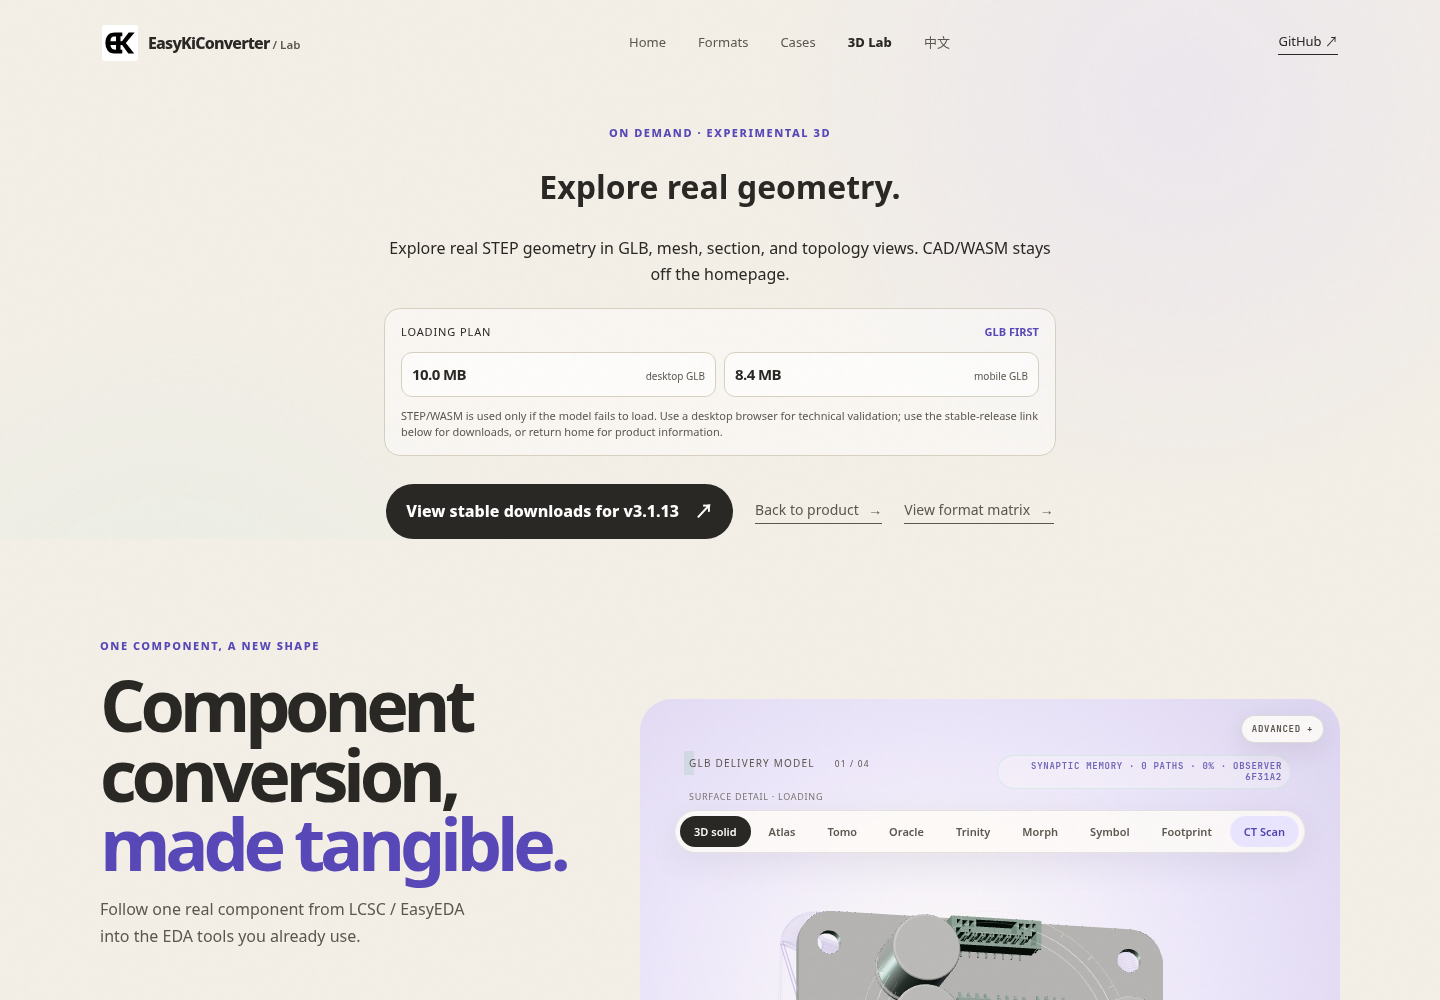
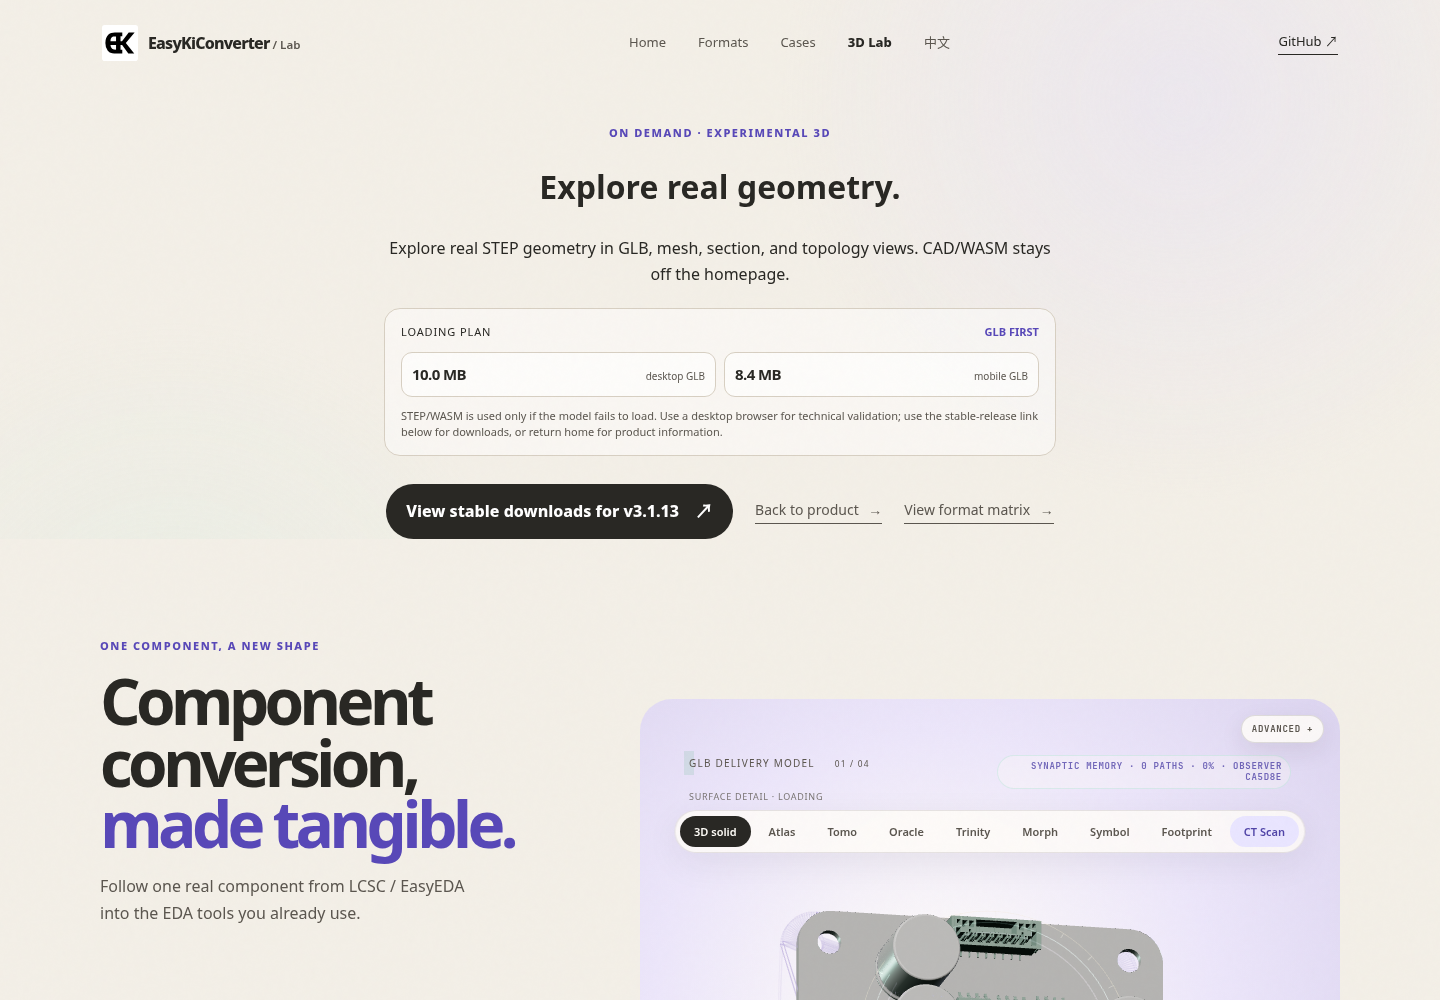
Fit Lab headline across runner fonts

Changed region(s): [[0.0625, 0.682, 0.4062, 0.961]]

diff --git a/src/css/motion-narrative.css b/src/css/motion-narrative.css
@@ -4,7 +4,7 @@
 .motion-heading h1,.motion-chapter h2{font-size:clamp(48px,6.8vw,94px);line-height:.96;letter-spacing:-.075em;margin:18px 0}
 .motion-heading h1 em,.motion-chapter h2 em{font-style:normal;color:var(--violet,#6f61d8)}
 .motion-heading>p:last-child,.motion-chapter p{max-width:370px;color:var(--muted,#746f66);line-height:1.7}
-@media(min-width:901px){.motion-heading{width:min(520px,36vw)}.motion-heading h1{font-size:clamp(48px,5vw,72px)}}
+@media(min-width:901px){.motion-heading{width:min(520px,36vw)}.motion-heading h1{font-size:clamp(48px,4.5vw,64px)}}
 .motion-model{position:absolute;z-index:1;left:50%;top:51%;width:min(62vw,780px);height:min(72vh,700px);min-height:380px;transform:translate(-50%,-50%);border-radius:48% 52% 57% 43% / 46% 43% 57% 54%;background:radial-gradient(ellipse at 42% 44%,#fffdf8 0%,#ece6fa 49%,#d8d0ed 100%);overflow:hidden;transition:width .5s ease,height .5s ease,border-radius .5s ease}
 .motion-model[data-artifact-view="model"]{border-radius:32px}
 @media(min-width:901px){.motion-model[data-artifact-view="model"]{left:auto;right:max(3vw,calc((100vw - 1240px)/2));width:min(52vw,700px);transform:translateY(-50%)}}

diff --git a/docs/QUALITY_BASELINE_en.md b/docs/QUALITY_BASELINE_en.md
@@ -12,7 +12,7 @@ Recorded: 2026-10-15. This document records facts reproducible from the reposito
 
 - 2026-10-16, keyboard testing found that the Chinese and English 3D Lab skip links updated the URL fragment and scrolled to `main#lab-main`, but focus returned to `body`. Adding `tabindex="-1"` to both main landmarks fixes focus transfer; bilingual keyboard regressions verify Enter places focus on main. Focused Chromium/Chromium Mobile tests (2) and full Playwright (222 passed, 4 skipped), `pnpm run build` (8 pages, zero Astro diagnostics), `pnpm run check`, eight-route validation, model-asset checks, six Python unit tests, and `git diff --check` passed. PR #354 was independently approved by Feng083 and merged into `version/V0.0.1` (merge `ad2f255`); PR checks and post-merge Site Quality run `38801904869` both passed (222 passed, 4 skipped). No production deployment or real-device test was performed.
 
-- 2026-10-16, a 1440px 3D Lab screenshot showed the Chinese narrative headline isolating “换，” on a line. The desktop breakpoint now caps the heading at 72px and widens its text column to 520px; bilingual 1440/1024px regressions check line count and keep the Chinese phrase together without changing tablet/mobile breakpoints. Before/after and English screenshots are in `.github/pr-evidence/lab-headline-{before,after}-*`. `pnpm run build` (8 pages, zero Astro diagnostics), `pnpm run check`, eight-route validation, model-asset checks, six Python unit tests, full Playwright (224 passed, 4 skipped), and `git diff --check` passed. The Release API returned 403 during build, so the checked `v3.1.13` fallback was used. No production deployment or real-device test was performed.
+- 2026-10-16, a 1440px 3D Lab screenshot showed the Chinese narrative headline isolating “换，” on a line. The first PR CI run (`38806234174`) found the English heading wrapping to four lines under the runner font metrics; the desktop breakpoint now caps the heading at 64px and widens its text column to 520px. Bilingual 1440/1024px regressions check line count and keep the Chinese phrase together without changing tablet/mobile breakpoints. Before/after and English screenshots are in `.github/pr-evidence/lab-headline-{before,after}-*`. Build, Astro check, eight-route validation, model-asset checks, six Python unit tests, focused bilingual Chromium/Chromium Mobile regressions, and the final full Playwright run (224 passed, 4 skipped) passed. The Release API returned 403 during build, so the checked `v3.1.13` fallback was used. No production deployment or real-device test was performed.
 
 - 2026-10-15, local-preview review found that SiteHeader, SiteFooter, the favicon, and the Lab product screenshot emitted absolute production-domain URLs for site-owned assets. On restricted networks, pending remote requests caused `networkidle` waits to time out. These assets now use `BASE_URL` paths and load from the active preview/deployment origin; a regression checks every `<img>` and favicon on all eight bilingual routes for same-origin URLs. The homepage now reaches network idle in 823ms with no external requests; the full Playwright suite passed 208 with 4 skipped. The first full run timed out in one existing card-layout test waiting for network idle, so it now waits for DOM readiness; a second run then exposed two external-asset timeouts, which passed after origin isolation. Production was not deployed.
 

diff --git a/docs/QUALITY_BASELINE.md b/docs/QUALITY_BASELINE.md
@@ -12,7 +12,7 @@
 
 - 2026-10-16，键盘实测发现中英文 3D Lab 跳转链接改变 URL 片段并滚动到 `main#lab-main`，但焦点返回 `body`。两个 Lab 主内容区增加 `tabindex="-1"`；双语键盘回归验证按 Enter 后焦点进入 main。聚焦 Chromium/Chromium Mobile（2 项）和完整 Playwright（222 passed、4 skipped）、`pnpm run build`（8 页面，Astro 无诊断）、`pnpm run check`、8 路由校验、模型资源检查、6 项 Python 单测及 `git diff --check` 均通过。PR #354 经 Feng083 独立审批后合入 `version/V0.0.1`（merge `ad2f255`）；PR 检查与合并后 Site Quality run `38801904869` 均通过（222 passed、4 skipped）。未部署生产或验证真机。
 
-- 2026-10-16，1440px 3D Lab 截图发现中文叙事主标题出现单字“换，”孤行。桌面断点将标题字级限制为 72px 并将文字栏拓宽至 520px；中英文 1440/1024px 回归验证标题行数及中文短语完整呈现，未改平板/手机断点。前后及英文截图见 `.github/pr-evidence/lab-headline-{before,after}-*`。`pnpm run build`（8 页面、Astro 无诊断）、`pnpm run check`、8 路由校验、模型资产检查、6 项 Python 单测、完整 Playwright（224 passed、4 skipped）和 `git diff --check` 均通过。构建时 Release API 返回 403，使用已检查的 `v3.1.13` 回退；未部署生产或验证真机。
+- 2026-10-16，1440px 3D Lab 截图发现中文叙事主标题出现单字“换，”孤行。首轮 PR CI（run `38806234174`）在 Runner 字体度量下发现英文标题排成 4 行；桌面断点将字号上限调为 64px、文字栏拓宽至 520px。中英文 1440/1024px 回归验证标题行数及中文短语完整呈现，平板/手机断点不变。前后及英文截图见 `.github/pr-evidence/lab-headline-{before,after}-*`。构建、Astro 检查、8 路由校验、模型资产检查、6 项 Python 单测、聚焦双语 Chromium/Chromium Mobile 回归和最终完整 Playwright（224 passed、4 skipped）均通过；Release API 返回 403，使用已检查的 `v3.1.13` 回退。未部署生产或验证真机。
 
 - 2026-10-15，本地预览审查发现 SiteHeader、SiteFooter、favicon 和 Lab 产品截图将站内静态资源生成为正式域名绝对 URL；受限网络下远程请求会挂起并导致 `networkidle` 等待超时。改用带 `BASE_URL` 的路径后，资源随当前预览/部署来源加载；新增回归检查 8 个中英文页面的所有 `<img>` 与 favicon 均为同源。首页现在在 823ms 内达到 network idle，未发现外部请求；完整 Playwright 为 208 passed、4 skipped。首次整套运行在 Chromium 中有 1 项旧卡片布局用例因等待 network idle 超时，改为等待 DOM 就绪；重跑时另有 2 项因外部资源挂起超时，资源隔离后完整套件通过。未部署生产。
 
